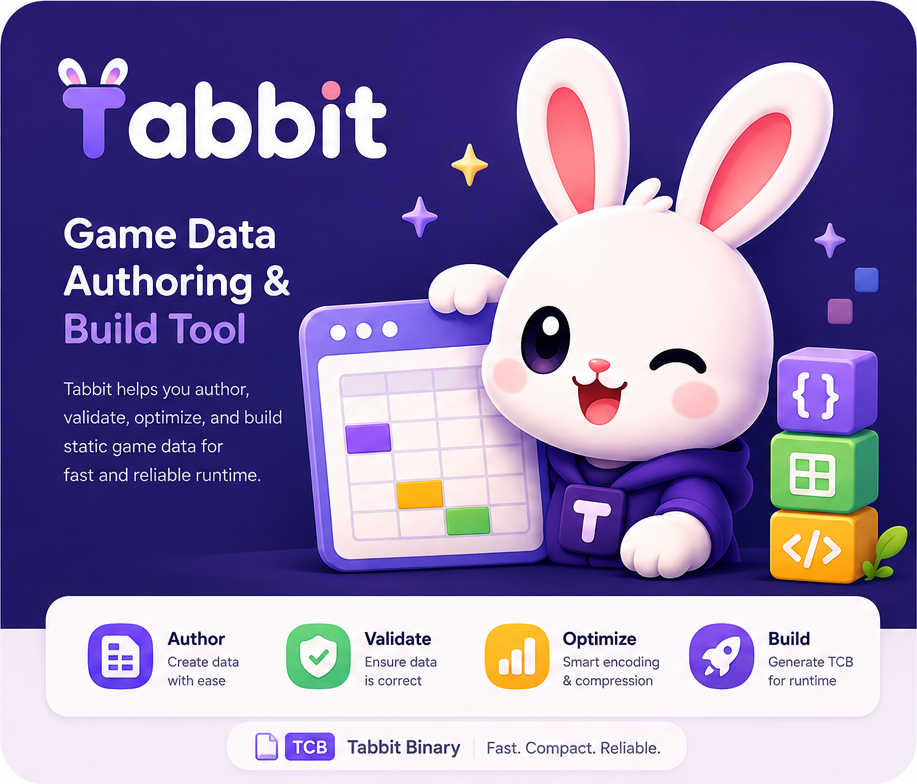
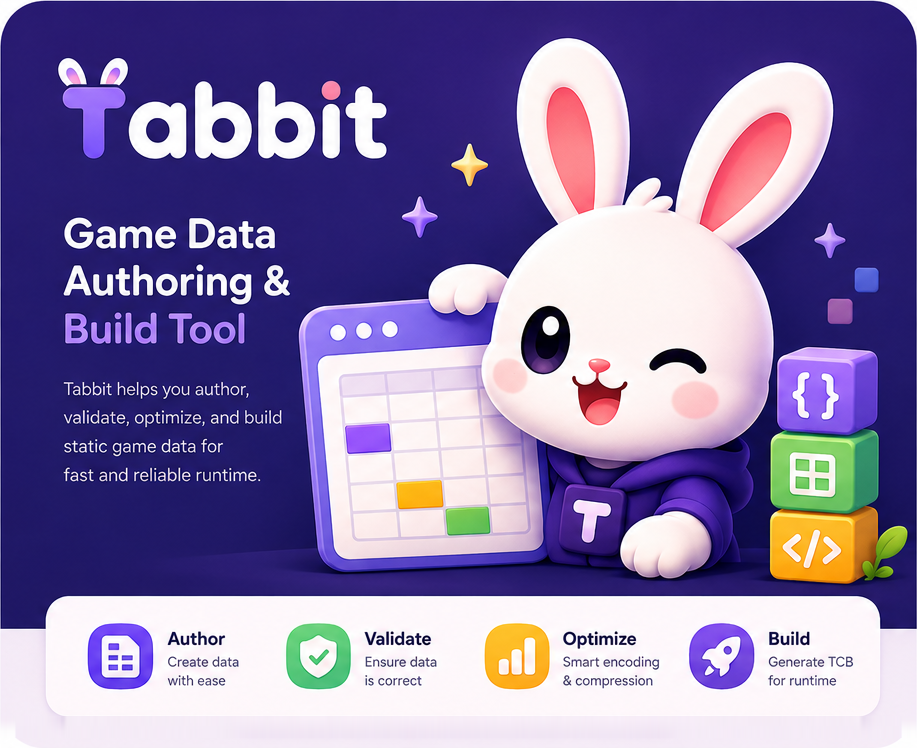
Take the format's acronym off the brand image
The banner carried a pill reading `TCB — Tabbit Binary | Fast. Compact.
Reliable.` Two things wrong with it: the expansion is Tabbit Compiled Binary,
and a file format's acronym is not what a brand image is for. The
documentation says what TCB is; the banner does not need to.

Drawn text rather than a string, so the derivation removes it. The background
under it is a vertical gradient, so a flat fill would show as a band - the
rows above and below are interpolated per column instead. That leaves the
lavender strip the pill sat in as empty margin, so the flat part of it is cut
and the container's rounded bottom kept, with the join interpolated away.
784px becomes 748px.

The source artwork is untouched. Redraw the mockup and this step deletes.

diff --git a/brand/readme.md b/brand/readme.md
@@ -53,6 +53,19 @@ node inspect.mjs source/brand-sheet.png          # 전체
 node inspect.mjs source/lockup-sheet.png 0 901 1253 1089   # 영역을 좁혀서
 ```
 
+### 배너에서 지우는 것
+
+원본 배너 하단에는 `TCB — Tabbit Binary | Fast. Compact. Reliable.` 알약이 그려져 있습니다.
+**두 가지가 틀렸습니다** — TCB는 **Tabbit Compiled Binary**이고, 파일 형식의 약자는 브랜드
+이미지가 말할 것이 아니라 문서가 말할 것입니다. 그래서 파생 단계에서 지웁니다.
+
+문자열이 아니라 그림이라 지우는 데 두 단계가 듭니다. 배경이 세로 그라디언트여서 단색으로
+칠하면 띠가 보이므로 **알약 위아래 행을 컬럼마다 보간해서** 채우고, 그러면 알약이 앉아 있던
+라벤더 띠가 빈 여백으로 남으므로 **평평한 부분만 잘라냅니다** — 컨테이너의 둥근 아래 모서리는
+남기고, 이어붙인 자리는 다시 보간해 지웁니다. 결과는 784px에서 748px입니다.
+
+원본은 그대로 둡니다. 시안을 다시 뽑으면 이 단계는 지우면 됩니다.
+
 ### 알아둘 것 둘
 
 **흰 배경은 임계값으로 지우지 않습니다.** 밝기만 보면 흰 토끼에 구멍이 뚫립니다. 가장자리에서
